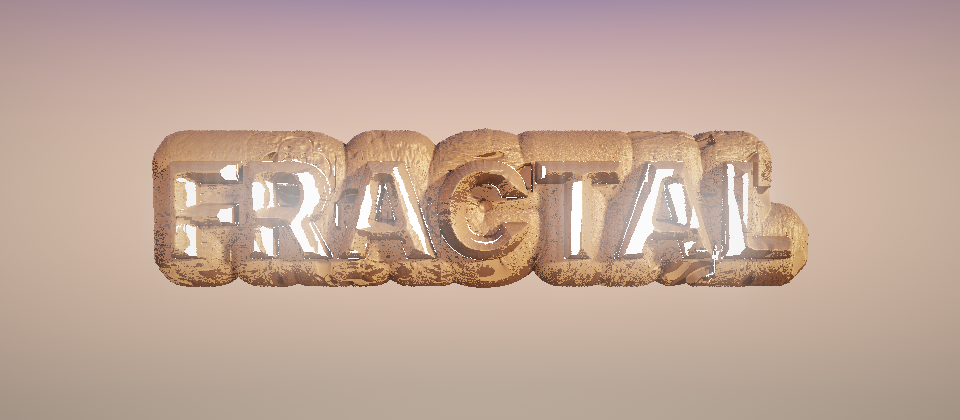
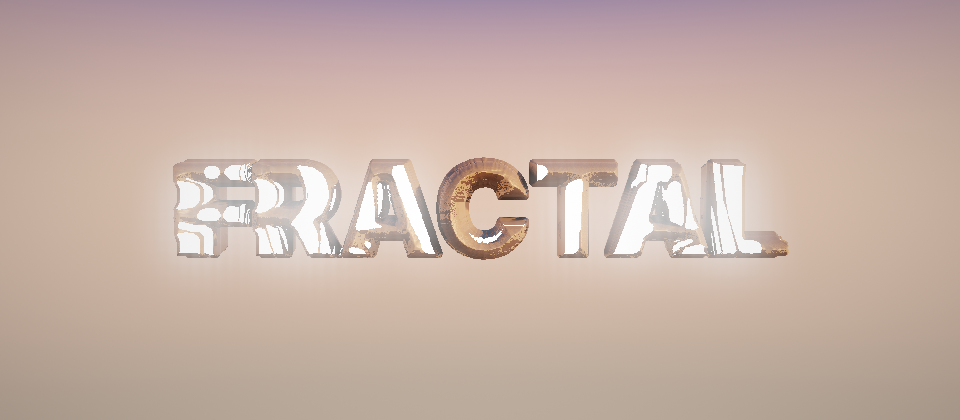
Text sculpture: slope-safe relief (gentler, scaled field) to stop blown-out letters; renders pending review
Claude-Session: https://claude.ai/code/session_01LzHNqcCdxhvjX5wMHSsh6L

Changed region(s): [[0.1562, 0.3095, 0.8438, 0.681]]

diff --git a/index.html b/index.html
@@ -908,7 +908,7 @@ float deText(vec3 p){
   ps = abs(mod(ps+Lc,4.0*Lc)-2.0*Lc) - Lc;
   float dF = deBox(ps,0)/sc;                                                // also sets gTrap for colouring
   float sk = clamp(gQW,-1.0,1.0);
-  if(sk>=0.0){ float hh = 1.0 - clamp(dF/0.2,0.0,1.0), inside = 1.0 - smoothstep(-0.03,0.03,d2); return d3 - 0.14*sk*hh*hh*inside; }   // raised relief grows out of the letters only; outlines stay crisp
+  if(sk>=0.0){ float hh = 1.0 - clamp(dF/0.2,0.0,1.0), inside = 1.0 - smoothstep(-0.10,0.02,d2); return (d3 - 0.12*sk*hh*hh*inside)*0.55; }   // relief grows out of the letters only; the 0.55 keeps the field's slope under 1 so the marcher cannot overshoot
   float off = (1.0+sk)*(1.0+sk)*0.2;
   return max(d3, dF - off);
 }
